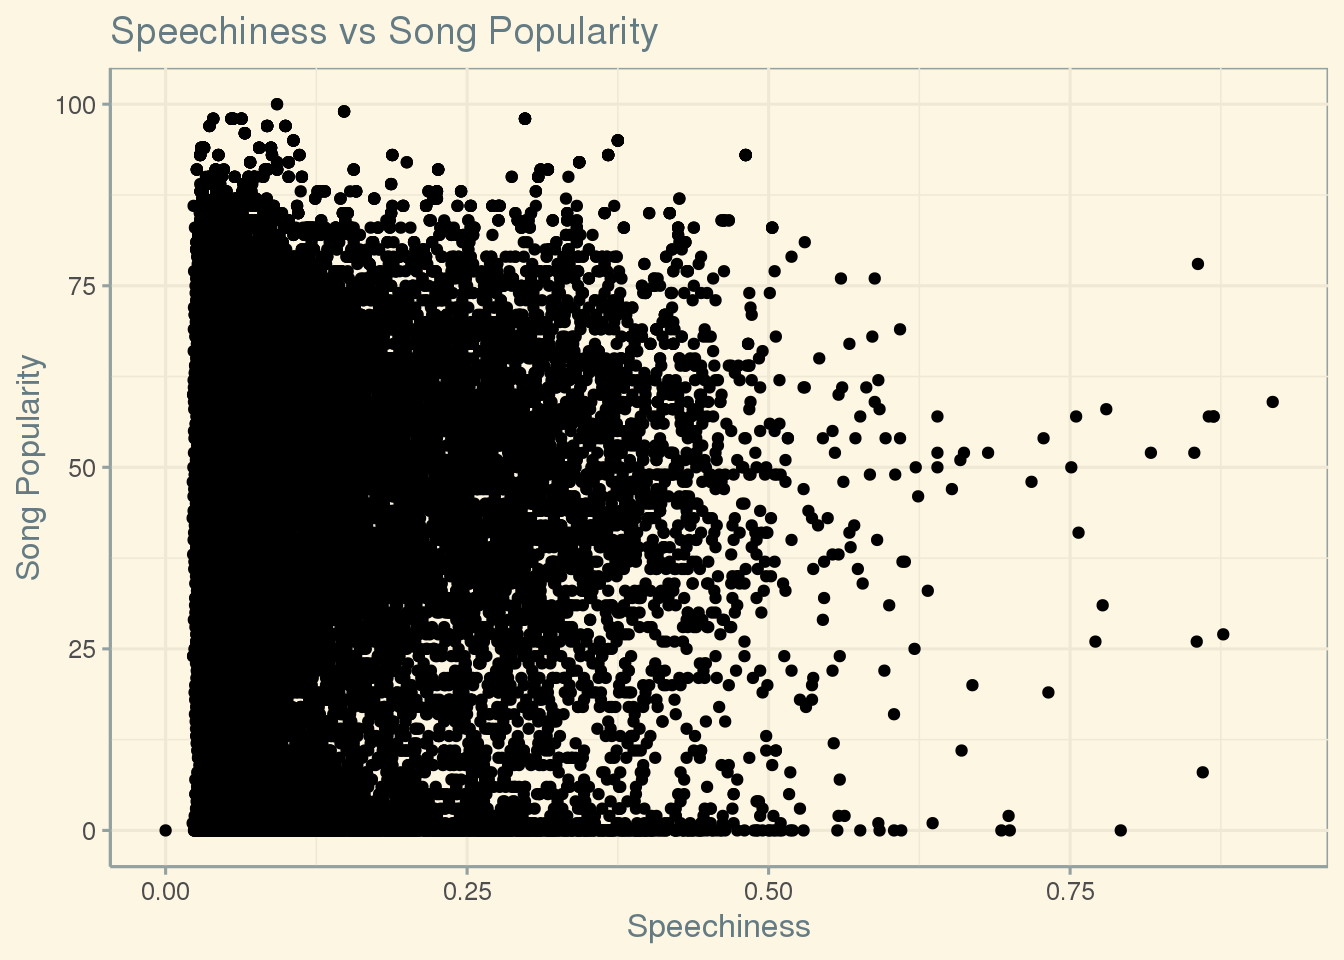
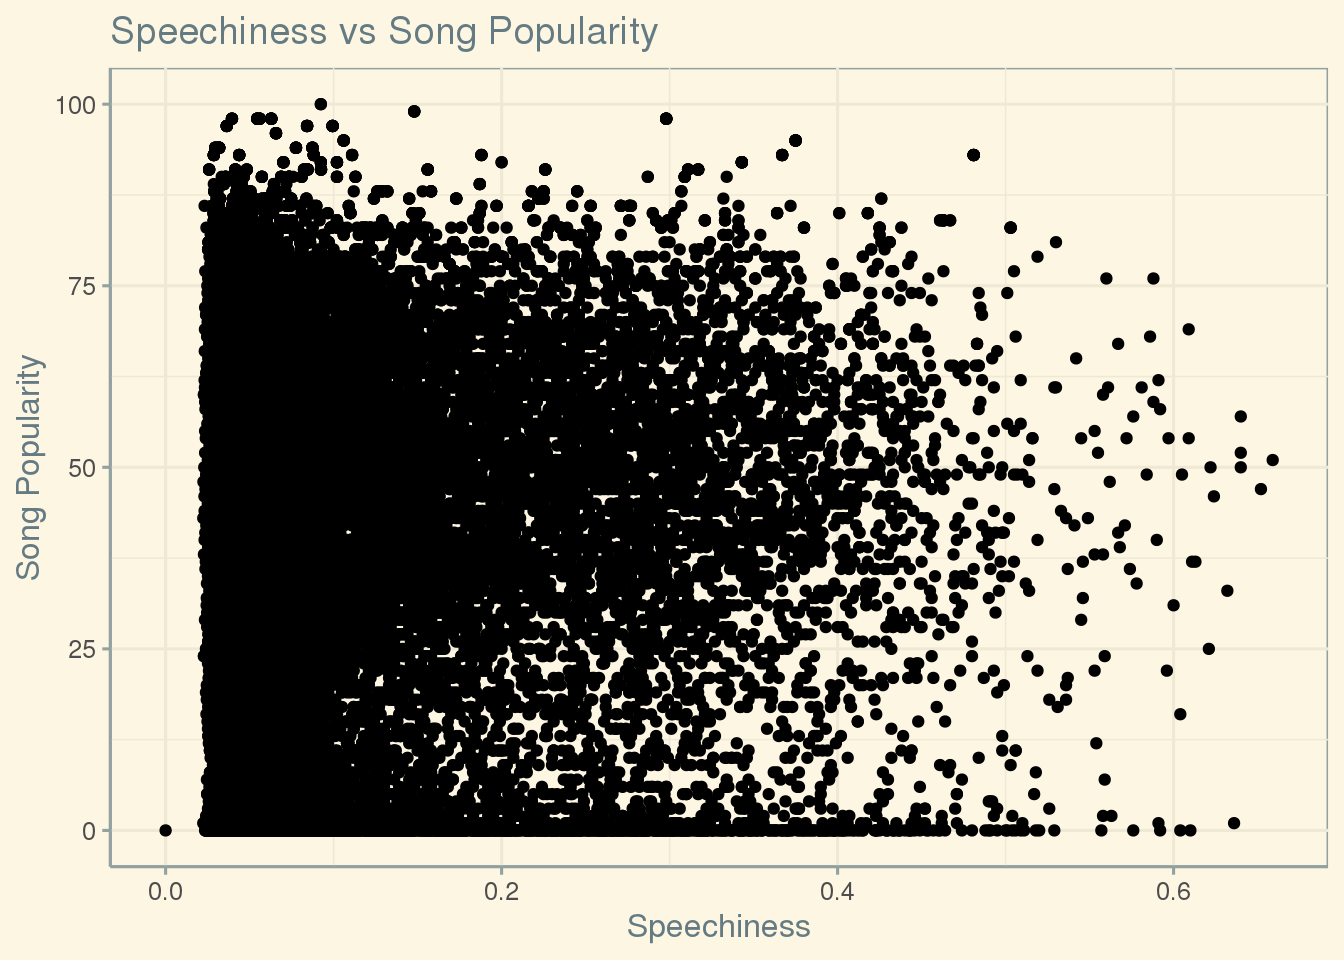
Worked on Spotify post

diff --git a/content/post/2020-12-05-spotify-data-analysis/index.html b/content/post/2020-12-05-spotify-data-analysis/index.html
@@ -19,28 +19,21 @@ library(ggthemes)
 knitr::opts_chunk$set(echo = FALSE, tidy = TRUE)
 spotify &lt;- read_csv(here::here(&quot;data&quot;, &quot;tidytuesday&quot;,
                                &quot;data&quot;,&quot;2020&quot;,&quot;2020-01-21&quot;,&quot;spotify_songs.csv&quot;))</code></pre>
-<ul>
-<li><p>Question 1: How does energy compare to the duration of a song? To test this I will create a chart, possibly a point or violin, to show dispersion and look for clustering at certain energy levels and times to see if there is a trend for how long high energy songs typically are and how long low energy songs are.
-<img src="index_files/figure-html/unnamed-chunk-2-1.png" width="672" /></p></li>
-<li><p>Question 2: What are the 10 most popular songs? What genres show up more than once? To test this I will need to filter for genre, song name, and popularity and then arrange them in descending order. From there I will get a list of the top 10 popular songs and can see what genres show up more than once.</p></li>
-</ul>
-<pre><code>## # A tibble: 32,833 x 3
-## # Groups:   track_name [23,450]
-##    track_name      playlist_genre track_popularity
-##    &lt;chr&gt;           &lt;chr&gt;                     &lt;dbl&gt;
-##  1 Dance Monkey    pop                         100
-##  2 Dance Monkey    latin                       100
-##  3 ROXANNE         latin                        99
-##  4 ROXANNE         r&amp;b                          99
-##  5 ROXANNE         r&amp;b                          99
-##  6 ROXANNE         edm                          99
-##  7 Tusa            pop                          98
-##  8 Memories        pop                          98
-##  9 Blinding Lights pop                          98
-## 10 Memories        pop                          98
-## # … with 32,823 more rows</code></pre>
-<ul>
-<li>Question 3: How does speechiness compare to popularity? Is there a sweetspot? To test this I will need to graph speechiness against popularity and look for a trend, I will likely start with a point graph and change from there if there is a better solution that presents itself.
-<img src="index_files/figure-html/unnamed-chunk-4-1.png" width="672" />
-Seems to be a strange trend where it slopes downward from top popularity to around .4 speechiness and slopes upward from .12 popularity to .4 speechiness to form a triangular point. The ones at the bottom people hated for reasons other than speechiness.</li>
-</ul>
+<p>My first question is, how does the energy of a song compare to it’s duration? To answer this I took the variables for song time and energy and plotted them against each other as a scatterplot to look for any patterns. I wanted to test this because it is easy to assume that a high energy song is going to be short, while a low energy song will be long. Looking at the graph it is interesting to see that the highest density area has the shape of an upside down tomb stone, or a parabola. It would appear that most songs are in the 1e+05 ms to 3e+05 ms range and are of an energy .4 or higher. So there is a tendency for artists to got for higher energy songs that are around 3.5 minutes long in order to keep the attention of the listener. One problem with this analysis is that it doesn’t take into account how well the song is perceived by the audience. There could be a point in that clump that was just a song with someone screaming as loud as they could for 3.5 minutes, I’m looking at you Screamo. While some people may like that the general audience will likely veer away from that kind of music, so the analysis is not all that helpful in real world application.
+<img src="index_files/figure-html/unnamed-chunk-2-1.png" width="672" /></p>
+<p>My second question is, What are the 10 most popular songs? What genres show up more than once? To answer this I had to pick the genre, song name, artist, and popularity from the data. Then I arranged in descending order by popularity and faced a new problem. The way the songs are stored is that a song can be in multiple genres and therefore get multiple entries. For example, Roxanne was in four different genres and therefore took up four slots of the top ten ranking. So, I had to learn a new command called ‘distinct’ to wipe out any repeats of a song based on it’s name but keep the three other variables involved. From there I narrowed down the list of twenty four thousand songs to the top ten. The main problem with this result is that the popularity variable is not specific enough. The popularity is only whole numbers, so many songs will end up tying and the actual ranking will be skewed. If I were to change the process in which the data was collected for this data set I would make the popularity variable more accurate to avoid this confusion. So, the top ten most popular songs in descending order are Dance Monkey, ROXANNE, Tusa, Memories, Blinding Lights, Circles, The Box, everything i wanted, Don’t Start Now, and Falling. Pop showed up 8 times out of the 10 results, so there is a clear preference towards pop on Spotify.</p>
+<pre><code>## # A tibble: 10 x 4
+##    track_name          track_artist   playlist_genre track_popularity
+##    &lt;chr&gt;               &lt;chr&gt;          &lt;chr&gt;                     &lt;dbl&gt;
+##  1 Dance Monkey        Tones and I    pop                         100
+##  2 ROXANNE             Arizona Zervas latin                        99
+##  3 Tusa                KAROL G        pop                          98
+##  4 Memories            Maroon 5       pop                          98
+##  5 Blinding Lights     The Weeknd     pop                          98
+##  6 Circles             Post Malone    pop                          98
+##  7 The Box             Roddy Ricch    rap                          98
+##  8 everything i wanted Billie Eilish  pop                          97
+##  9 Don&#39;t Start Now     Dua Lipa       pop                          97
+## 10 Falling             Trevor Daniel  pop                          97</code></pre>
+<p>My third question is, how does a song’s speechiness compare to it’s popularity? Is there a sweet spot of speechiness to make a song more popular? To answer this I graphed the variables attached to speechiness and song popularity against each other as a scatter plot. I made sure to not include points that had a speechiness above .66 because those are not necessarily classified as music. From there I looked at the general shape the points made and if any trends were obvious. My thinking behind this was to see if music listeners payed any mind to the amount of words in a song. If there are too many words it might as well be a college lecture while if there are too few there is hardly any message to it. Of course the popularity of a song doesn’t solely depend on speechiness, but there is some influence from what we can tell from the graph. What I found is that there seems to be a trend where the points slope downward from top popularity to around .4 speechiness and slope upward from 12 popularity to .4 speechiness to form a triangular point. Also, there are a lot of points with no popularity at all where it didn’t matter how speechy they were, so they were disliked for other reasons. So, in general as a song gets more speechy it’s popularity decreases. The trend upward from 12 popularity to around 50 popularity is likely attributed to other factors. There is no real sweet spot, but being less speechy does help. The main problem with this data is that the process by which speech was detected in the song was not clarified. If I were to redo this data set I would definitely include that process so people were better educated about the speechiness variable’s accuracy and meaning.
+<img src="index_files/figure-html/unnamed-chunk-4-1.png" width="672" /></p>
